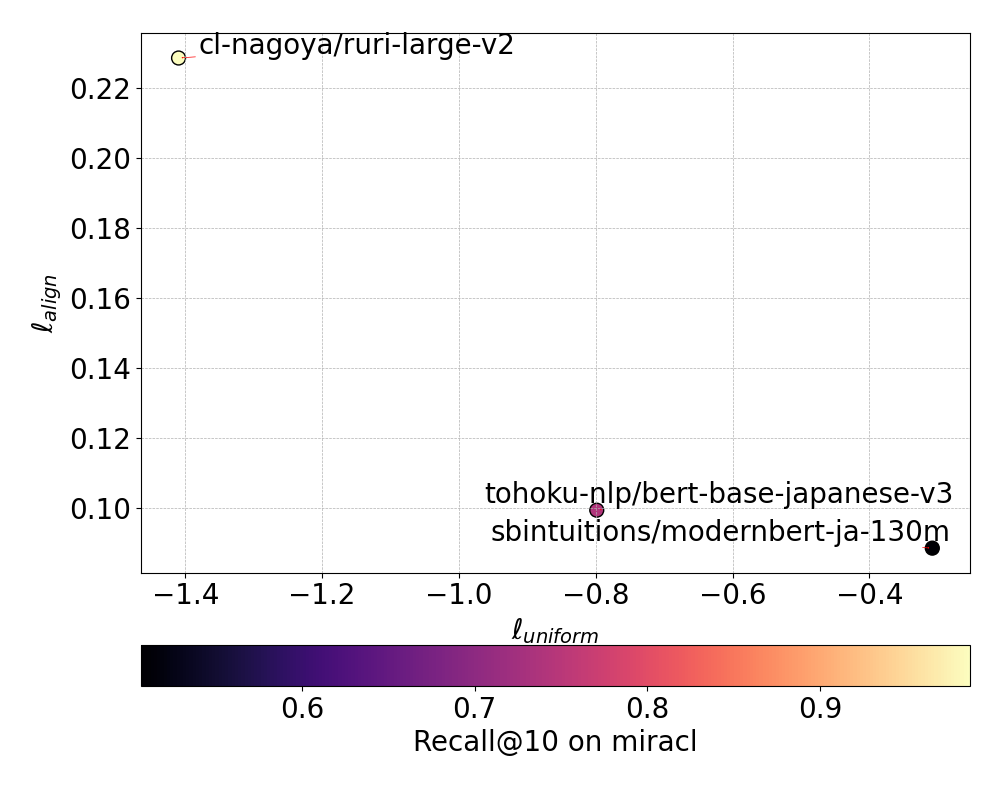
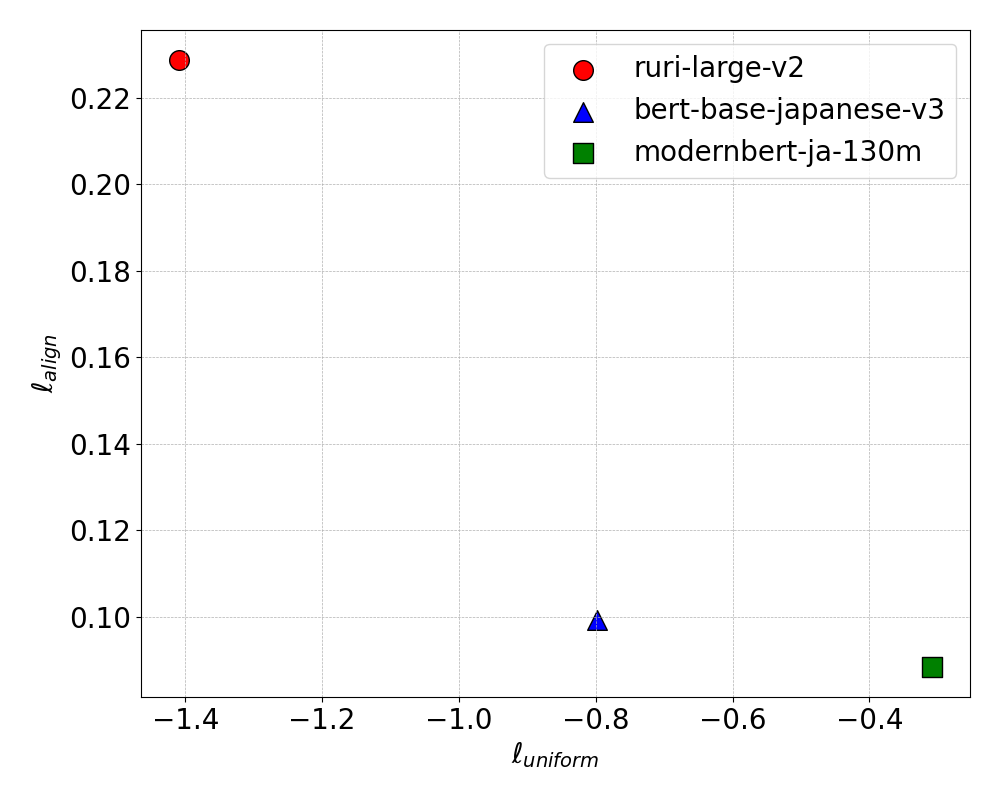
fix

diff --git a/src/eval/alignment_and_uniformity.py b/src/eval/alignment_and_uniformity.py
@@ -3,10 +3,8 @@ import torch.nn.functional as F
 from sentence_transformers import SentenceTransformer
 from datasets import load_dataset
 from matplotlib import pyplot as plt
-import seaborn as sns
 from argparse import ArgumentParser
 import json
-from adjustText import adjust_text
 import os
 
 
@@ -98,6 +96,9 @@ if __name__ == "__main__":
     #     # "speed/llm-jp-modernbert-base-v4-ja-stage1-400k",
     #     "speed/llm-jp-modernbert-base-v4-ja-stage1-500k",
     #     "speed/llm-jp-modernbert-base-v4-ja-stage2-200k",
+    #     "cl-nagoya/ruri-large-v2",
+    #     "tohoku-nlp/bert-base-japanese-v3",
+    #     "sbintuitions/modernbert-ja-130m",
     # ]
 
     for model_id in model_list:
@@ -119,51 +120,11 @@ if __name__ == "__main__":
             "alignment": alignment_score,
             "uniformity": uniformity_score,
         }
-
-    # Plot Alignment vs. Uniformity
-
-    data = []
-    for model_id, scores in result_dict.items():
-        miracl_result_path = os.path.join(
-            args.output_dir, "miracl", model_id, "results.json"
+        os.makedirs(
+            os.path.join("results/alignment_and_uniformity", model_id), exist_ok=True
         )
-        if not os.path.exists(miracl_result_path):
-            recall = 0
-        else:
-            with open(miracl_result_path, "r") as f:
-                data_json = json.load(f)
-                # {"Recall@10": 0.6723940435280642, "MRR@10": 0.47000740922562306}
-            recall = data_json["Recall@10"]
-        data.append((model_id, scores["alignment"], scores["uniformity"], recall))
-
-    # 散布図データ抽出
-    labels, aligns, uniforms, scores = zip(*data)
-
-    # プロット設定
-    plt.figure(figsize=(10, 8))
-    norm = plt.Normalize(min(scores), max(scores))
-    cmap = sns.color_palette("magma", as_cmap=True)
-    sc = plt.scatter(
-        uniforms, aligns, c=scores, cmap=cmap, norm=norm, s=100, edgecolors="k"
-    )
-
-    texts = []
-
-    for label, x, y in zip(labels, uniforms, aligns):
-        label = label.split("/")[-1]
-        label = "-".join(label.split("-")[-2:])
-        texts.append(plt.text(x, y, label))
-
-    adjust_text(texts, arrowprops=dict(arrowstyle="->", color="r", lw=0.5))
-
-    # 軸ラベル
-    plt.xlabel(r"$\ell_{uniform}$")
-    plt.ylabel(r"$\ell_{align}$")
-
-    # カラーバー（スコア用）(上部に配置)
-    cbar = plt.colorbar(sc, orientation="horizontal", pad=0.1)
-
-    cbar.set_label("Recall@10 on miracl")
-    plt.tight_layout()
-    plt.grid(True, which="both", linestyle="--", linewidth=0.5)
-    plt.savefig("Alignment_vs_Uniformity.png")
+        with open(
+            os.path.join("results/alignment_and_uniformity", model_id, "result.json"),
+            "w",
+        ) as f:
+            json.dump(result_dict[model_id], f, indent=4)

diff --git a/src/eval/sim_distribution.py b/src/eval/sim_distribution.py
@@ -44,18 +44,21 @@ if __name__ == "__main__":
     result_dict = {}
 
     model_list = args.model_list
-    # model_list = [
-    #     # "speed/llm-jp-modernbert-base-v4-ja-stage1-0k",
-    #     # "speed/llm-jp-modernbert-base-v4-ja-stage1-4k",
-    #     # "speed/llm-jp-modernbert-base-v4-ja-stage1-15k",
-    #     # "speed/llm-jp-modernbert-base-v4-ja-stage1-50k",
-    #     "speed/llm-jp-modernbert-base-v4-ja-stage1-100k",
-    #     "speed/llm-jp-modernbert-base-v4-ja-stage1-200k",
-    #     "speed/llm-jp-modernbert-base-v4-ja-stage1-300k",
-    #     "speed/llm-jp-modernbert-base-v4-ja-stage1-400k",
-    #     "speed/llm-jp-modernbert-base-v4-ja-stage1-500k",
-    #     "speed/llm-jp-modernbert-base-v4-ja-stage2-200k",
-    # ]
+    model_list = [
+        "speed/llm-jp-modernbert-base-v4-ja-stage1-0k",
+        "speed/llm-jp-modernbert-base-v4-ja-stage1-4k",
+        "speed/llm-jp-modernbert-base-v4-ja-stage1-15k",
+        #     # "speed/llm-jp-modernbert-base-v4-ja-stage1-50k",
+        "speed/llm-jp-modernbert-base-v4-ja-stage1-100k",
+        #     "speed/llm-jp-modernbert-base-v4-ja-stage1-200k",
+        #     "speed/llm-jp-modernbert-base-v4-ja-stage1-300k",
+        "speed/llm-jp-modernbert-base-v4-ja-stage1-400k",
+        #     "speed/llm-jp-modernbert-base-v4-ja-stage1-500k",
+        "speed/llm-jp-modernbert-base-v4-ja-stage2-200k",
+        "cl-nagoya/ruri-large-v2",
+        "tohoku-nlp/bert-base-japanese-v3",
+        "sbintuitions/modernbert-ja-130m",
+    ]
     for model_id in model_list:
         print(f"Model: {model_id}")
         model = SentenceTransformer(model_id).to(device)
@@ -75,7 +78,11 @@ if __name__ == "__main__":
         # plt.title(model_id)
         plt.xlabel("Alignment score")
         plt.ylabel("Frequency")
-        plt.xlim(0, 1)
+        plt.ylim(0, 600)
+        plt.xlim(0, 2)
+        plt.tight_layout()
+        if "speed" in model_id:
+            model_id = model_id.replace("speed", "llm-jp")
         os.makedirs(os.path.join("results/sentence_sim_dist", model_id), exist_ok=True)
         plt.savefig(
             os.path.join("results/sentence_sim_dist", model_id, "distribution.png")

diff --git a/README.md b/README.md
@@ -152,6 +152,7 @@ You can decrease the number of examples to speed up the evaluation.
 To conduct the alignment and uniformity evaluation (refer to the paper [SimCSE](https://arxiv.org/abs/2104.08821)), run the following command:
 ```bash
 $ python src/eval/alignment_and_uniformity.py
+$ python src/eval/plot_align_and_uni.py 
 ```
 ![Alignment & Uniformity](./Alignment_vs_Uniformity.png)
 
